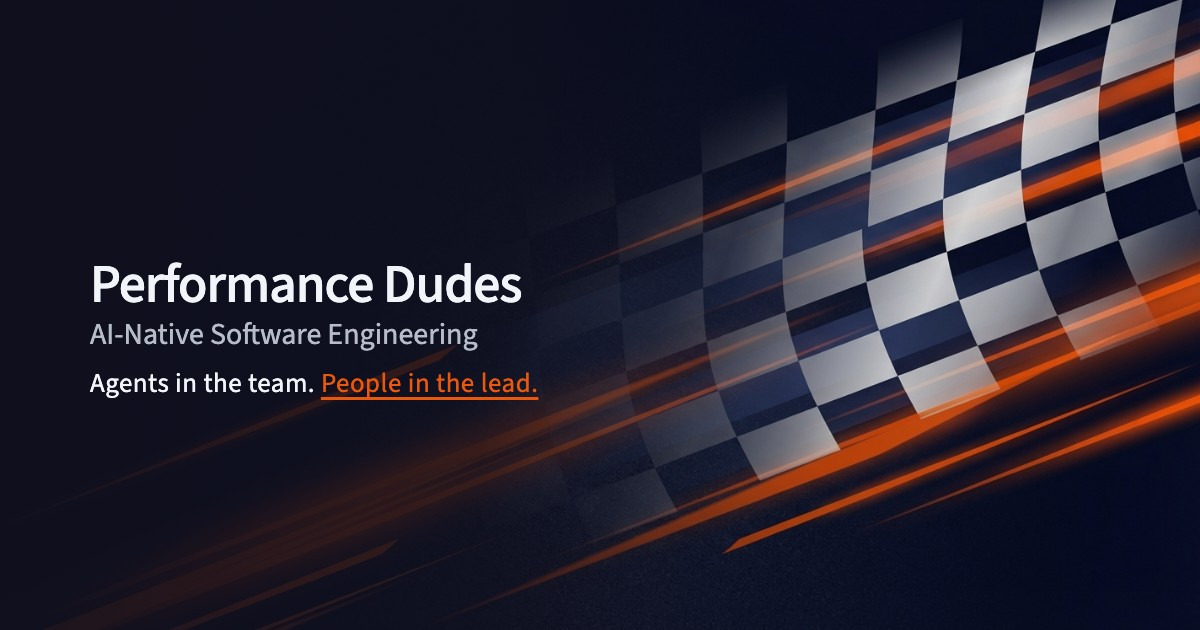
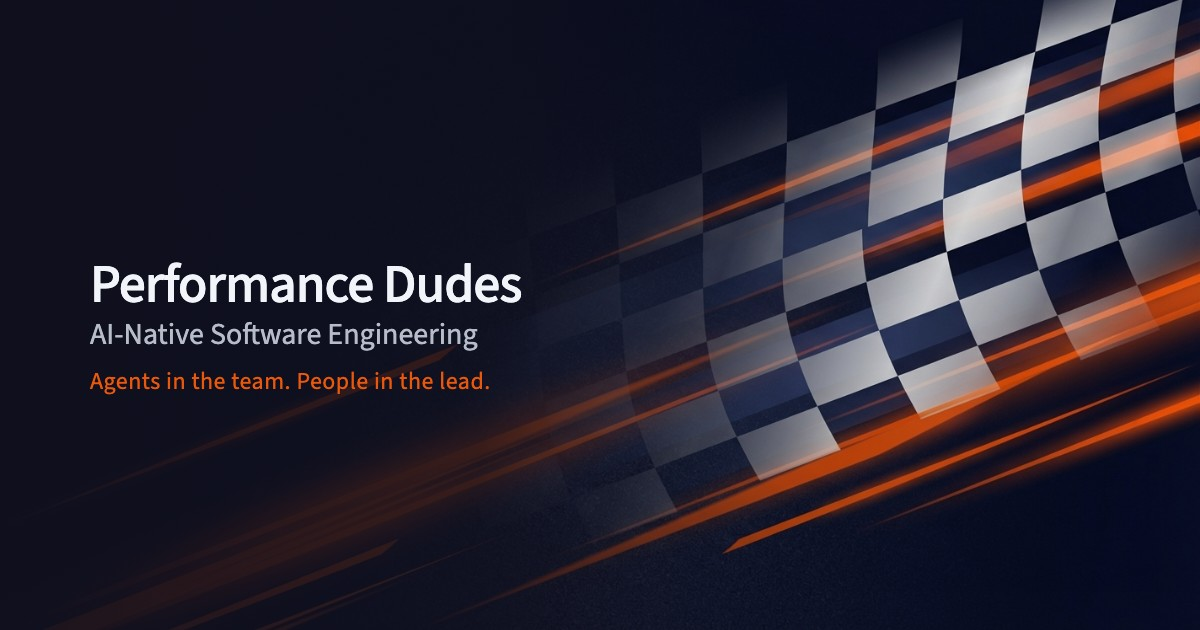
style(og): kompakten Slogan komplett orange + kleiner wie das Original
Der Slogan der kompakten Variante soll den Original-Stil von "Build fast. Enable.
Leave." exakt treffen: nicht ein hervorgehobener Einzel-Beat, sondern der ganze
Slogan einheitlich orange, kleiner (24px) und ohne Unterstreichung. Betrifft nur
compact; die große Variante behält den hellen Slogan mit orangem, unterstrichenem
Beat.

Claude-Session: https://claude.ai/code/session_0145i5EJ38RYKJC6xyr5v5v8

Changed region(s): [[0.0617, 0.573, 0.4625, 0.6635]]

diff --git a/scripts/og/og-template.html b/scripts/og/og-template.html
@@ -55,7 +55,7 @@
         font-family: "Source Sans 3", -apple-system, BlinkMacSystemFont, sans-serif;
         --fs-eyebrow: 18px;
         --fs-title: 54px;
-        --fs-tagline: 27px;
+        --fs-tagline: 24px;
         --ls-title: -1px;
         --mb-eyebrow: 20px;
         --mb-title: 18px;
@@ -130,7 +130,10 @@
         font-size: 30px; color: #b6bdc9; margin-bottom: 10px; margin-top: 0;
       }
       body.compact .eyebrow .dash { display: none; }
-      body.compact .tagline { order: 3; }
+      /* Slogan wie im Original ("Build fast. Enable. Leave."): komplett orange,
+         kleiner, ohne Unterstreichung — kein hervorgehobener Einzel-Beat. */
+      body.compact .tagline { order: 3; color: var(--orange); }
+      body.compact .tagline u { text-decoration: none; }
       body.compact .tagline .lead-in { display: inline; margin-bottom: 0; }
     </style>
   </head>
